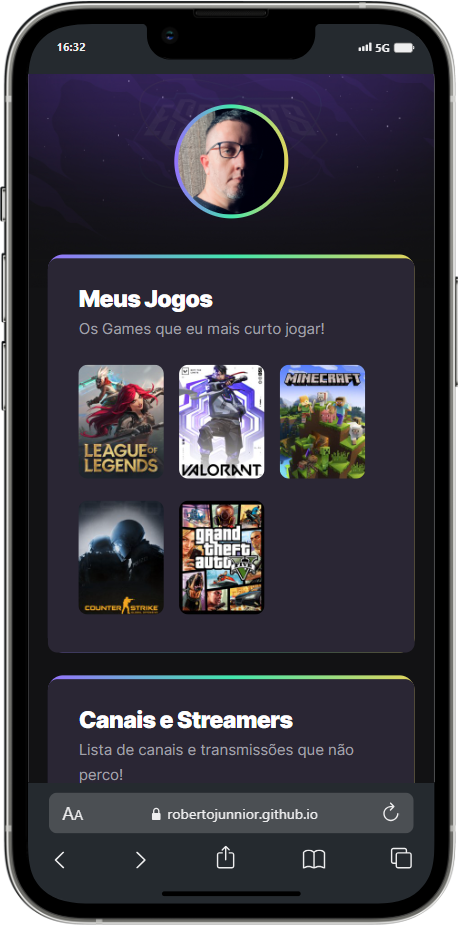
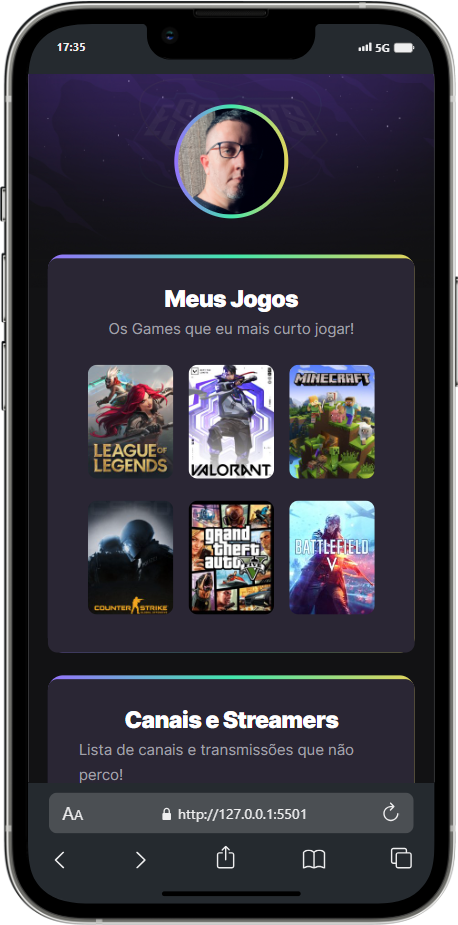
update - Mockup and readme

diff --git a/index.html b/index.html
@@ -1,5 +1,6 @@
 <!DOCTYPE html>
 <html lang="pt-br">
+
 <head>
     <link rel="preconnect" href="https://fonts.googleapis.com">
     <link rel="preconnect" href="https://fonts.gstatic.com" crossorigin>
@@ -18,9 +19,9 @@
 
     <header>
         <div>
-        <img id="avatar" src="https://github.com/robertojunnior.png" alt="Foto perfil GitHub robertojunnior">
+            <img id="avatar" src="https://github.com/robertojunnior.png" alt="Foto perfil GitHub robertojunnior">
         </div>
-    </header> 
+    </header>
 
     <main>
         <section>
@@ -30,25 +31,41 @@
 
                 <ul class="games-list">
                     <li>
-                        <a target="_blank" href="https://www.twitch.tv/directory/game/League%20of%20Legends"><img src="https://static-cdn.jtvnw.net/ttv-boxart/21779-188x250.jpg" alt="imagem do jogo league of legends"></a>
+                        <a target="_blank" href="https://www.twitch.tv/directory/game/League%20of%20Legends"><img
+                                src="https://static-cdn.jtvnw.net/ttv-boxart/21779-188x250.jpg"
+                                alt="imagem do jogo league of legends"></a>
                     </li>
 
                     <li>
-                        <a target="_blank" href="https://www.twitch.tv/directory/game/VALORANT"><img src="https://static-cdn.jtvnw.net/ttv-boxart/516575-188x250.jpg" alt="imagem do jogo VALORANT"></a>
+                        <a target="_blank" href="https://www.twitch.tv/directory/game/VALORANT"><img
+                                src="https://static-cdn.jtvnw.net/ttv-boxart/516575-188x250.jpg"
+                                alt="imagem do jogo VALORANT"></a>
                     </li>
 
                     <li>
-                        <a target="_blank" href="https://www.twitch.tv/directory/game/Minecraft"><img src="https://static-cdn.jtvnw.net/ttv-boxart/27471_IGDB-188x250.jpg" alt="imagem do jogo Minecraft"></a>
+                        <a target="_blank" href="https://www.twitch.tv/directory/game/Minecraft"><img
+                                src="https://static-cdn.jtvnw.net/ttv-boxart/27471_IGDB-188x250.jpg"
+                                alt="imagem do jogo Minecraft"></a>
                     </li>
 
                     <li>
-                        <a target="_blank" href="https://www.twitch.tv/directory/game/Counter-Strike%3A%20Global%20Offensive"><img src="https://static-cdn.jtvnw.net/ttv-boxart/32399_IGDB-188x250.jpg" alt="imagem do jogo Counter"></a>
-                    </li>
-                    
-                    <li>
-                        <a target="_blank" href="https://www.twitch.tv/directory/game/Grand%20Theft%20Auto%20V"><img src="https://static-cdn.jtvnw.net/ttv-boxart/32982_IGDB-188x250.jpg" alt="imagem do jogo Gta V"></a>
+                        <a target="_blank"
+                            href="https://www.twitch.tv/directory/game/Counter-Strike%3A%20Global%20Offensive"><img
+                                src="https://static-cdn.jtvnw.net/ttv-boxart/32399_IGDB-188x250.jpg"
+                                alt="imagem do jogo Counter"></a>
                     </li>
 
+                    <li>
+                        <a target="_blank" href="https://www.twitch.tv/directory/game/Grand%20Theft%20Auto%20V"><img
+                                src="https://static-cdn.jtvnw.net/ttv-boxart/32982_IGDB-188x250.jpg"
+                                alt="imagem do jogo Gta V"></a>
+                    </li>
+                    <li>
+                        <a href="https://www.twitch.tv/directory/category/battlefield-v">
+                            <img src="https://static-cdn.jtvnw.net/ttv-boxart/504199_IGDB-144x192.jpg"
+                                alt="imagem do jogo battlefield-v">
+                        </a>
+                    </li>
 
                 </ul>
 
@@ -64,28 +81,34 @@
 
                 <ul class="channel-list">
                     <li>
-                        <a target="_blank" href="https://www.twitch.tv/maykbrito"><img src="https://static-cdn.jtvnw.net/jtv_user_pictures/9ce11a2b-ec84-44b1-9c76-b8d29df5fef0-profile_image-150x150.png" alt="imagem do canal do Mayk Brito"></a>
+                        <a target="_blank" href="https://www.twitch.tv/maykbrito"><img
+                                src="https://static-cdn.jtvnw.net/jtv_user_pictures/9ce11a2b-ec84-44b1-9c76-b8d29df5fef0-profile_image-150x150.png"
+                                alt="imagem do canal do Mayk Brito"></a>
                     </li>
 
                     <li>
-                        <a target="_blank" href="https://www.twitch.tv/tvcarioca"><img src="https://static-cdn.jtvnw.net/jtv_user_pictures/a1a005f3-3ab4-459f-89b6-cf6705c5756d-profile_image-70x70.png" alt="imagem do canal do Carioca TV"></a>
+                        <a target="_blank" href="https://www.twitch.tv/tvcarioca"><img
+                                src="https://static-cdn.jtvnw.net/jtv_user_pictures/a1a005f3-3ab4-459f-89b6-cf6705c5756d-profile_image-70x70.png"
+                                alt="imagem do canal do Carioca TV"></a>
                     </li>
 
                     <li>
-                        <a target="_blank" href="https://www.twitch.tv/ticaracaticast"><img src="https://static-cdn.jtvnw.net/jtv_user_pictures/32174c2c-c37c-4d74-822b-2daada3c67d5-profile_image-70x70.png" alt="imagem do canal Ticaracaticast"></a>
+                        <a target="_blank" href="https://www.twitch.tv/ticaracaticast"><img
+                                src="https://static-cdn.jtvnw.net/jtv_user_pictures/32174c2c-c37c-4d74-822b-2daada3c67d5-profile_image-70x70.png"
+                                alt="imagem do canal Ticaracaticast"></a>
                     </li>
 
                     <li>
-                        <a target="_blank" href="https://www.twitch.tv/edusterblitch"><img src="https://static-cdn.jtvnw.net/jtv_user_pictures/4562124c-ef5d-4f10-9bc6-48a17eff3aa0-profile_image-70x70.png" alt="imagem do canal edusterblitch"></a>
+                        <a target="_blank" href="https://www.twitch.tv/edusterblitch"><img
+                                src="https://static-cdn.jtvnw.net/jtv_user_pictures/4562124c-ef5d-4f10-9bc6-48a17eff3aa0-profile_image-70x70.png"
+                                alt="imagem do canal edusterblitch"></a>
                     </li>
                     <li>
-                        <a target="_blank" href="https://www.twitch.tv/defantediogo"><img src="https://static-cdn.jtvnw.net/jtv_user_pictures/d43d6554-3521-471c-8929-d53f36e95a22-profile_image-150x150.jpg" alt="imagem do canal Ticaracaticast"></a>
+                        <a target="_blank" href="https://www.twitch.tv/defantediogo"><img
+                                src="https://static-cdn.jtvnw.net/jtv_user_pictures/d43d6554-3521-471c-8929-d53f36e95a22-profile_image-150x150.jpg"
+                                alt="imagem do canal Ticaracaticast"></a>
                     </li>
-                    
                 </ul>
-
-
-
             </div>
         </section>
 
@@ -96,27 +119,41 @@
 
                 <ul class="social-list">
                     <li>
-                        <a target="_blank" href="https://www.github.com/robertojunnior"> 
-                            <svg height="32" aria-hidden="true" viewBox="0 0 16 16" version="1.1" width="32" fill="white" data-view-component="true" class="octicon octicon-mark-github v-align-middle">
-                                <path fill-rule="evenodd" d="M8 0C3.58 0 0 3.58 0 8c0 3.54 2.29 6.53 5.47 7.59.4.07.55-.17.55-.38 0-.19-.01-.82-.01-1.49-2.01.37-2.53-.49-2.69-.94-.09-.23-.48-.94-.82-1.13-.28-.15-.68-.52-.01-.53.63-.01 1.08.58 1.23.82.72 1.21 1.87.87 2.33.66.07-.52.28-.87.51-1.07-1.78-.2-3.64-.89-3.64-3.95 0-.87.31-1.59.82-2.15-.08-.2-.36-1.02.08-2.12 0 0 .67-.21 2.2.82.64-.18 1.32-.27 2-.27.68 0 1.36.09 2 .27 1.53-1.04 2.2-.82 2.2-.82.44 1.1.16 1.92.08 2.12.51.56.82 1.27.82 2.15 0 3.07-1.87 3.75-3.65 3.95.29.25.54.73.54 1.48 0 1.07-.01 1.93-.01 2.2 0 .21.15.46.55.38A8.013 8.013 0 0016 8c0-4.42-3.58-8-8-8z"></path>
+                        <a target="_blank" href="https://www.github.com/robertojunnior">
+                            <svg height="32" aria-hidden="true" viewBox="0 0 16 16" version="1.1" width="32"
+                                fill="white" data-view-component="true"
+                                class="octicon octicon-mark-github v-align-middle">
+                                <path fill-rule="evenodd"
+                                    d="M8 0C3.58 0 0 3.58 0 8c0 3.54 2.29 6.53 5.47 7.59.4.07.55-.17.55-.38 0-.19-.01-.82-.01-1.49-2.01.37-2.53-.49-2.69-.94-.09-.23-.48-.94-.82-1.13-.28-.15-.68-.52-.01-.53.63-.01 1.08.58 1.23.82.72 1.21 1.87.87 2.33.66.07-.52.28-.87.51-1.07-1.78-.2-3.64-.89-3.64-3.95 0-.87.31-1.59.82-2.15-.08-.2-.36-1.02.08-2.12 0 0 .67-.21 2.2.82.64-.18 1.32-.27 2-.27.68 0 1.36.09 2 .27 1.53-1.04 2.2-.82 2.2-.82.44 1.1.16 1.92.08 2.12.51.56.82 1.27.82 2.15 0 3.07-1.87 3.75-3.65 3.95.29.25.54.73.54 1.48 0 1.07-.01 1.93-.01 2.2 0 .21.15.46.55.38A8.013 8.013 0 0016 8c0-4.42-3.58-8-8-8z">
+                                </path>
                             </svg>
 
                     <li>
-                        <a target="_blank" href="https://www.linkedin.com/in/robertopontojunior/"> 
-                            <svg xmlns="http://www.w3.org/2000/svg" viewBox="0 0 24 24" data-supported-dps="32x32" fill="white" class="mercado-match" width="32" height="32" focusable="false">
-                                <path d="M20.5 2h-17A1.5 1.5 0 002 3.5v17A1.5 1.5 0 003.5 22h17a1.5 1.5 0 001.5-1.5v-17A1.5 1.5 0 0020.5 2zM8 19H5v-9h3zM6.5 8.25A1.75 1.75 0 118.3 6.5a1.78 1.78 0 01-1.8 1.75zM19 19h-3v-4.74c0-1.42-.6-1.93-1.38-1.93A1.74 1.74 0 0013 14.19a.66.66 0 000 .14V19h-3v-9h2.9v1.3a3.11 3.11 0 012.7-1.4c1.55 0 3.36.86 3.36 3.66z"></path>
-                              </svg>
+                        <a target="_blank" href="https://www.linkedin.com/in/robertopontojunior/">
+                            <svg xmlns="http://www.w3.org/2000/svg" viewBox="0 0 24 24" data-supported-dps="32x32"
+                                fill="white" class="mercado-match" width="32" height="32" focusable="false">
+                                <path
+                                    d="M20.5 2h-17A1.5 1.5 0 002 3.5v17A1.5 1.5 0 003.5 22h17a1.5 1.5 0 001.5-1.5v-17A1.5 1.5 0 0020.5 2zM8 19H5v-9h3zM6.5 8.25A1.75 1.75 0 118.3 6.5a1.78 1.78 0 01-1.8 1.75zM19 19h-3v-4.74c0-1.42-.6-1.93-1.38-1.93A1.74 1.74 0 0013 14.19a.66.66 0 000 .14V19h-3v-9h2.9v1.3a3.11 3.11 0 012.7-1.4c1.55 0 3.36.86 3.36 3.66z">
+                                </path>
+                            </svg>
                         </a>
                     </li>
 
                     <li>
                         <a target="_blank" href="https://www.instagram.com/_onedeveloper/">
-                            <svg width="32" height="32" viewBox="0 0 32 32" fill="none" xmlns="http://www.w3.org/2000/svg">
-                                <path d="M16 21C18.7614 21 21 18.7614 21 16C21 13.2386 18.7614 11 16 11C13.2386 11 11 13.2386 11 16C11 18.7614 13.2386 21 16 21Z" stroke="#FA41FE" stroke-width="2" stroke-miterlimit="10"/>
-                                <path d="M21.5 4.5H10.5C7.18629 4.5 4.5 7.18629 4.5 10.5V21.5C4.5 24.8137 7.18629 27.5 10.5 27.5H21.5C24.8137 27.5 27.5 24.8137 27.5 21.5V10.5C27.5 7.18629 24.8137 4.5 21.5 4.5Z" stroke="#FA41FE" stroke-width="2" stroke-linecap="round" stroke-linejoin="round"/>
-                                <path d="M22.5 11C23.3284 11 24 10.3284 24 9.5C24 8.67157 23.3284 8 22.5 8C21.6716 8 21 8.67157 21 9.5C21 10.3284 21.6716 11 22.5 11Z" fill="#FA41FE"/>
-                                </svg>
-                                
+                            <svg width="32" height="32" viewBox="0 0 32 32" fill="none"
+                                xmlns="http://www.w3.org/2000/svg">
+                                <path
+                                    d="M16 21C18.7614 21 21 18.7614 21 16C21 13.2386 18.7614 11 16 11C13.2386 11 11 13.2386 11 16C11 18.7614 13.2386 21 16 21Z"
+                                    stroke="#FA41FE" stroke-width="2" stroke-miterlimit="10" />
+                                <path
+                                    d="M21.5 4.5H10.5C7.18629 4.5 4.5 7.18629 4.5 10.5V21.5C4.5 24.8137 7.18629 27.5 10.5 27.5H21.5C24.8137 27.5 27.5 24.8137 27.5 21.5V10.5C27.5 7.18629 24.8137 4.5 21.5 4.5Z"
+                                    stroke="#FA41FE" stroke-width="2" stroke-linecap="round" stroke-linejoin="round" />
+                                <path
+                                    d="M22.5 11C23.3284 11 24 10.3284 24 9.5C24 8.67157 23.3284 8 22.5 8C21.6716 8 21 8.67157 21 9.5C21 10.3284 21.6716 11 22.5 11Z"
+                                    fill="#FA41FE" />
+                            </svg>
+
                         </a>
                     </li>
 
@@ -133,4 +170,5 @@
 
 
 </body>
+
 </html>

diff --git a/style.css b/style.css
@@ -1,12 +1,14 @@
 @charset "UTF-8";
 
-* { /*reset de Css*/
+* {
+    /*reset de Css*/
     margin: 0;
     padding: 0;
     box-sizing: border-box;
 }
 
-ul { /*retirar indicador bolinha da UL*/
+ul {
+    /*retirar indicador bolinha da UL*/
     list-style: none;
 }
 
@@ -26,11 +28,11 @@ body {
 header {
     padding-top: 32px;
     height: 158px;
-    
+
 }
 
 header div {
-    width: 120px ;
+    width: 120px;
     margin: auto;
     background-image: linear-gradient(90deg, #9572FC 0%, #43E7AD 50%, #E2D45C 100%);
     border-radius: 50%;
@@ -47,17 +49,14 @@ header div:hover {
 header div img {
     width: 100%;
     border-radius: 50%;
-
 }
 
 main {
-    max-width: 580px;
+    max-width: 690px;
     width: 90%;
     margin: 32px auto;
     display: grid;
     gap: 24px;
-
-    
 }
 
 section {
@@ -76,7 +75,7 @@ section div {
 
 section h2 {
     letter-spacing: -0.47px;
-    }
+}
 
 section p {
     letter-spacing: -0.18px;
@@ -108,7 +107,6 @@ section ul li:hover {
     width: 90px;
     background-image: linear-gradient(90deg, #9572FC 0%, #43E7AD 50%, #E2D45C 100%);
     padding: 2px;
-
 }
 
 /* animation */
@@ -159,4 +157,15 @@ main section:nth-child(3) {
     }
 }
 
+@media screen and (max-width: 600px) {
+    section div {
+        display: flex;
+        justify-content: center;
+        flex-direction: column;
+        align-items: center;
+    }
 
+    section ul {
+        justify-content: center;
+    }
+}

diff --git a/README.md b/README.md
@@ -9,7 +9,7 @@ Project carried out at Rocketseat nlw e-sports week with Mayk Brito.
 
 Click on the image to open in your browser!
 
-<a href="https://robertojunnior.github.io/nlw_e_sports/" target="_blank"><img src="https://github.com/robertojunnior/nlw_e_sports/blob/main/assets/nlw-esports-capture.png.png?raw=true" alt="imagem do projeto nlw e-sports"></a>
+<a href="https://robertojunnior.github.io/nlw_e_sports/" target="_blank"><img src="assets/mockup-entrega.png" alt="imagem do projeto nlw e-sports"></a>
 
 If anyone can use the "animated edge" code in this project, just access my repository https://github.com/robertojunnior/Html_Css_JavaScript/tree/main/Borda_Animada, letting me know that you would like to learn.
 Any questions, just contact me in one of my contacts.
